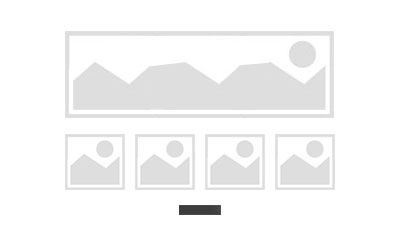
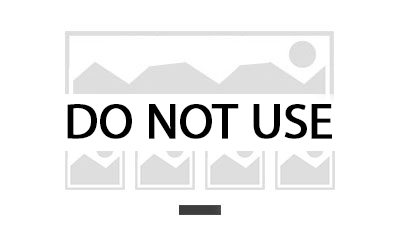
remove featured item slide

Changed region(s): [[0.15, 0.3669, 0.84, 0.621]]

diff --git a/wp-content/themes/hhc/includes/slide.php b/wp-content/themes/hhc/includes/slide.php
@@ -344,41 +344,6 @@ if ($video_url != "") {
 
 
 
-<?php } else if ($slide_type == "featured_item") { ?>
-<div class="fix-10-12 <?php echo $hero_alignment; ?>">
-	<?php echo $title_html; ?>
-	<div class="ae-2"><?php echo $slide_content; ?></div>
-</div>
-<!-- post loop -->
-<?php
-	$post_loop = get_field('post_loop', $slide_id);
-	if ($post_loop != false) {
-		$the_query = new WP_Query(array( 'post_type' => $post_loop, 'posts_per_page' => -1 ));
-		if ( $the_query->have_posts() ) {
-			echo '<ul class="post-grid">';
-			while ( $the_query->have_posts() ) {
-				$the_query->the_post();
-				$thumb = wp_get_attachment_image_src( get_post_thumbnail_id($link->ID), 'medium' )['0'];
-				echo '<li class="blog-article">';
-				if ($thumb) {
-					echo '<div class="img-holder">';
-						echo '<img src="' . $thumb . '">';
-					echo '</div>';
-				}
-					echo '<div class="post-content">';
-						echo '<a href="' . get_the_permalink() . '" class="post-title">' . get_the_title() . '</a>';
-						echo '<div class="post-excerpt">' . get_the_excerpt() . '</div>';
-					echo '</div>';
-				echo '</li>';
-			}
-			echo '</ul>';
-		}
-		wp_reset_postdata();
-	}
-?>
-
-<?php include('cta.php'); ?>
-
 
 
 
@@ -468,6 +433,12 @@ if ($video_url != "") {
 
 
 
+
+
+<?php } else if ($slide_type == "featured_item") { ?>
+<div class="fix-10-12 <?php echo $hero_alignment; ?>">
+	This slide type is no longer in use! Please use Single Central Column instead.
+</div>
 
 
 
